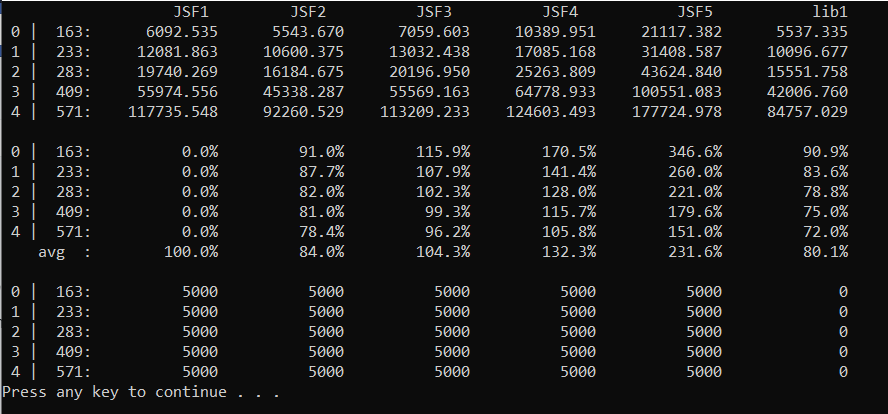
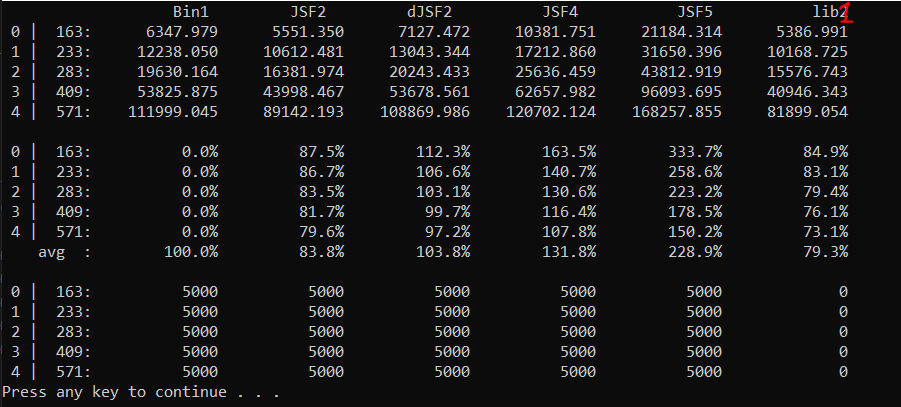
update result testing dJSFs

diff --git a/Paper/newtest.cpp b/Paper/newtest.cpp
@@ -61,41 +61,42 @@ void compares(csprng &Rng, pepoint P, big n, Result &res)
 			startTimer(&timer3);
 			//ShamirDecompose3(k, k1, k2, k3, P, P1, P2, P3);
 			//ShamirMul_Bin3_ptr(&shrOpt, k1, k2, k3, P1, P2, P3, R3);
-			ShamirDecompose_n(2, k, kx, P, Px);
+			ShamirDecompose_n(3, k, kx, P, Px);
 			//ShamirMul_Bin_n(3, &shrOpt, kx, Px, R3);
-			ShamirMul_dJSF(2, &shrOpt, kx, Px, R3);
+			ShamirMul_dJSF(3, &shrOpt, kx, Px, R3);
 			stopTimer(&timer3);
 			dur3 = getTickCount(&timer3);
 			min3 = (min3 < dur3) ? min3 : dur3; 
 
 			// JSF4
 			startTimer(&timer4);
-			//ShamirDecompose_n(4, k, kx, P, Px);
+			ShamirDecompose_n(4, k, kx, P, Px);
 			//ShamirMul_Bin_n(4, &shrOpt, kx, Px, R4);
 			//ShamirDecompose(k, P, a, Q, b);
 			//ShamirMul_JSF(&shrOpt, a, P, b, Q, R4);
-			//ShamirMul_dJSF(4, &shrOpt, kx, Px, R4);
+			ShamirMul_dJSF(4, &shrOpt, kx, Px, R4);
 			stopTimer(&timer4);
 			dur4 = getTickCount(&timer4);
 			min4 = (min4 < dur4) ? min4 : dur4; 
 
 			// JSF5
 			startTimer(&timer5);
-			//ShamirDecompose_n(5, k, kx, P, Px);
+			ShamirDecompose_n(5, k, kx, P, Px);
 			//ShamirMul_Bin_n(5, &shrOpt, kx, Px, R5);
-			//ShamirMul_dJSF(5, &shrOpt, kx, Px, R5);
+			ShamirMul_dJSF(5, &shrOpt, kx, Px, R5);
 			//ShamirDecompose(k, P, a, Q, b);
 			//ecurve2_mult2(a, P, b, Q, R5);
 			stopTimer(&timer5);
 			dur5 = getTickCount(&timer5);
 			min5 = (min5 < dur5) ? min5 : dur5;
 
-			// lib2
+			// lib1
 			startTimer(&timer6);
 			//ShamirDecompose_n(3, k, kx, P, Px);
 			//ecurve2_multn(3, kx, Px, R);
-			ShamirDecompose(k, P, a, Q, b);
-			ecurve2_mult2(a, P, b, Q, R);
+			//ShamirDecompose(k, P, a, Q, b);
+			//ecurve2_mult2(a, P, b, Q, R);
+			ecurve2_mult(k, P, R);
 			stopTimer(&timer6);
 			dur6 = getTickCount(&timer6);
 			min6 = (min6 < dur6) ? min6 : dur6;
